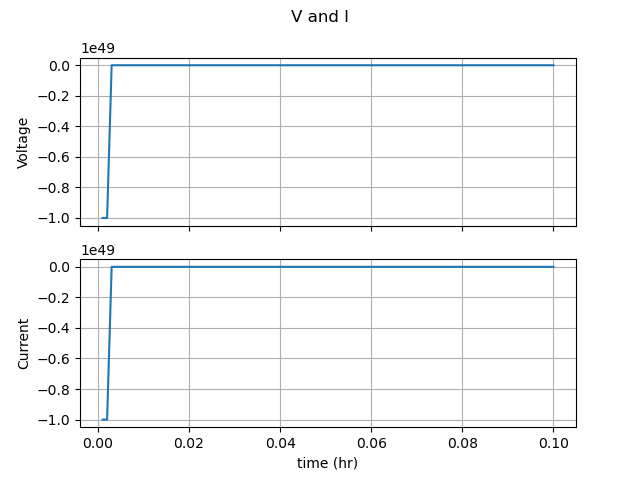
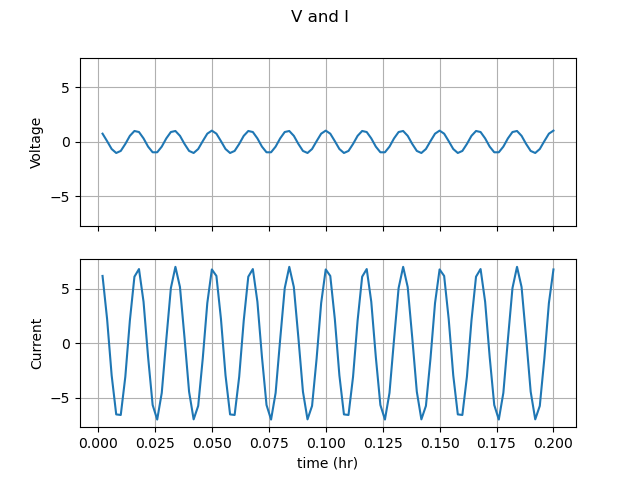
Finish Debugging Save federate

diff --git a/save_federate.py b/save_federate.py
@@ -19,7 +19,7 @@ def destroy_federate(fed):
 
 
 if __name__ == "__main__":
-    total_interval = 0.1
+    total_interval = 0.2
     ##########  Registering  federate and configuring from JSON################
     fed = h.helicsCreateValueFederateFromConfig("save_fed_config.json")
     federate_name = h.helicsFederateGetName(fed)
@@ -32,7 +32,7 @@ if __name__ == "__main__":
         subid[i] = h.helicsFederateGetInputByIndex(fed, i)
         sub_name = h.helicsSubscriptionGetTarget(subid[i])
         logger.debug(f"Sub {sub_name}")
-        
+
     pubid = {}
     for i in range(0, pub_count):
         pubid[i] = h.helicsFederateGetPublicationByIndex(fed, i)
@@ -48,17 +48,21 @@ if __name__ == "__main__":
     time_sim = []
     total_current = []
     soc = {}
+
+    # import pdb
+    # pdb.set_trace()
     # As long as granted time is in the time range to be simulated...
     while grantedtime < total_interval:
         # Time request for the next physical interval to be simulated
         requested_time = grantedtime + update_interval
         logger.debug(f"Requesting time {requested_time}")
-        grantedtime = h.helicsFederateRequestTime(fed, requested_time)
+        # grantedtime = h.helicsFederateRequestTime(fed, requested_time)
+        grantedtime = h.helicsFederateRequestTime(fed, h.HELICS_TIME_MAXTIME)
         logger.debug(f"Granted time {grantedtime}")
 
         # Iterating over publications in this case since this example
         #  uses only one charging voltage for all five batteries
-
+   
         for j in range(0, sub_count):
             # Get the applied charging voltage from the EV
             save_term = h.helicsInputGetDouble((subid[j]))
@@ -70,6 +74,9 @@ if __name__ == "__main__":
             if subid[j] not in soc:
                 soc[subid[j]] = []
             soc[subid[j]].append(float(save_term))
+
+            # import pdb
+            # pdb.set_trace()
         # Data collection vectors
         time_sim.append(grantedtime)
 
@@ -85,7 +92,8 @@ if __name__ == "__main__":
     fig.suptitle("V and I")
 
     axs[0].plot(xaxis, y[0], color="tab:blue", linestyle="-")
-    # axs[0].set_yticks(np.arange(0, 1.25, 0.5))
+    # axs[0].set_yticks(np.arange(0, 0.1, 0.01))
+    # axs[0].set_ylim(0, 0.1)
     axs[0].set(ylabel="Voltage")
     axs[0].grid(True)
 
